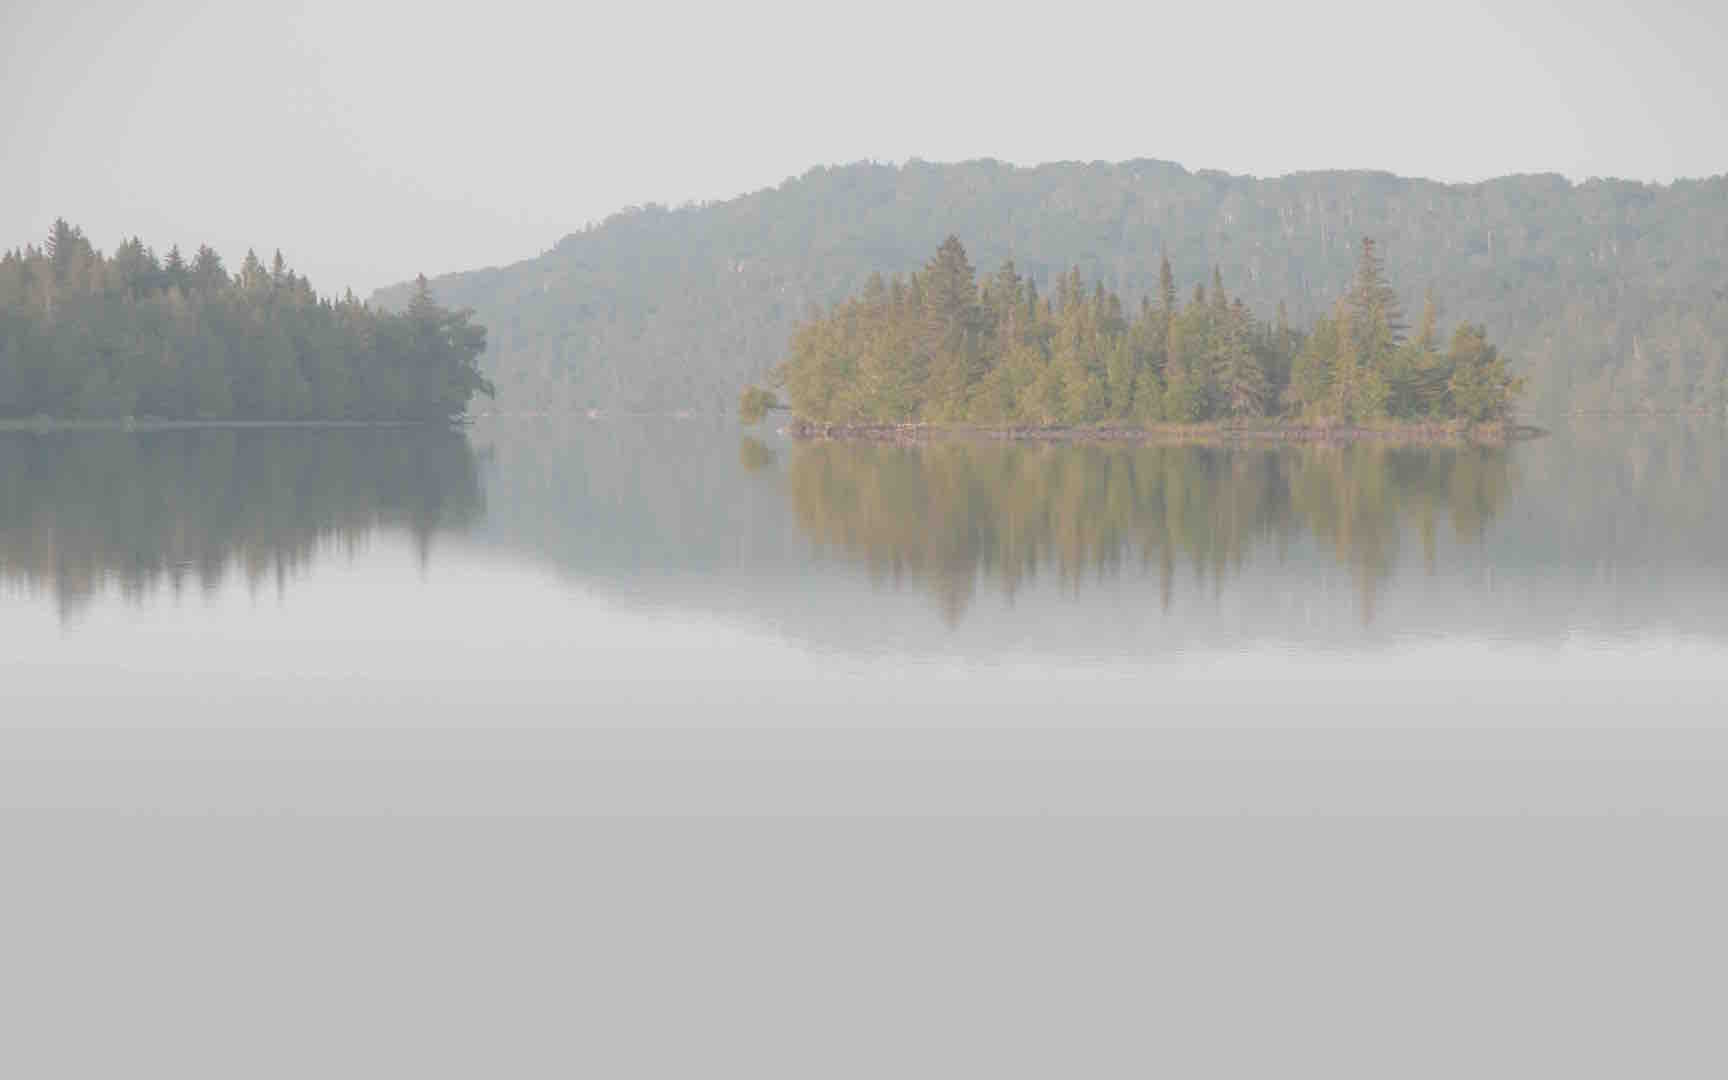
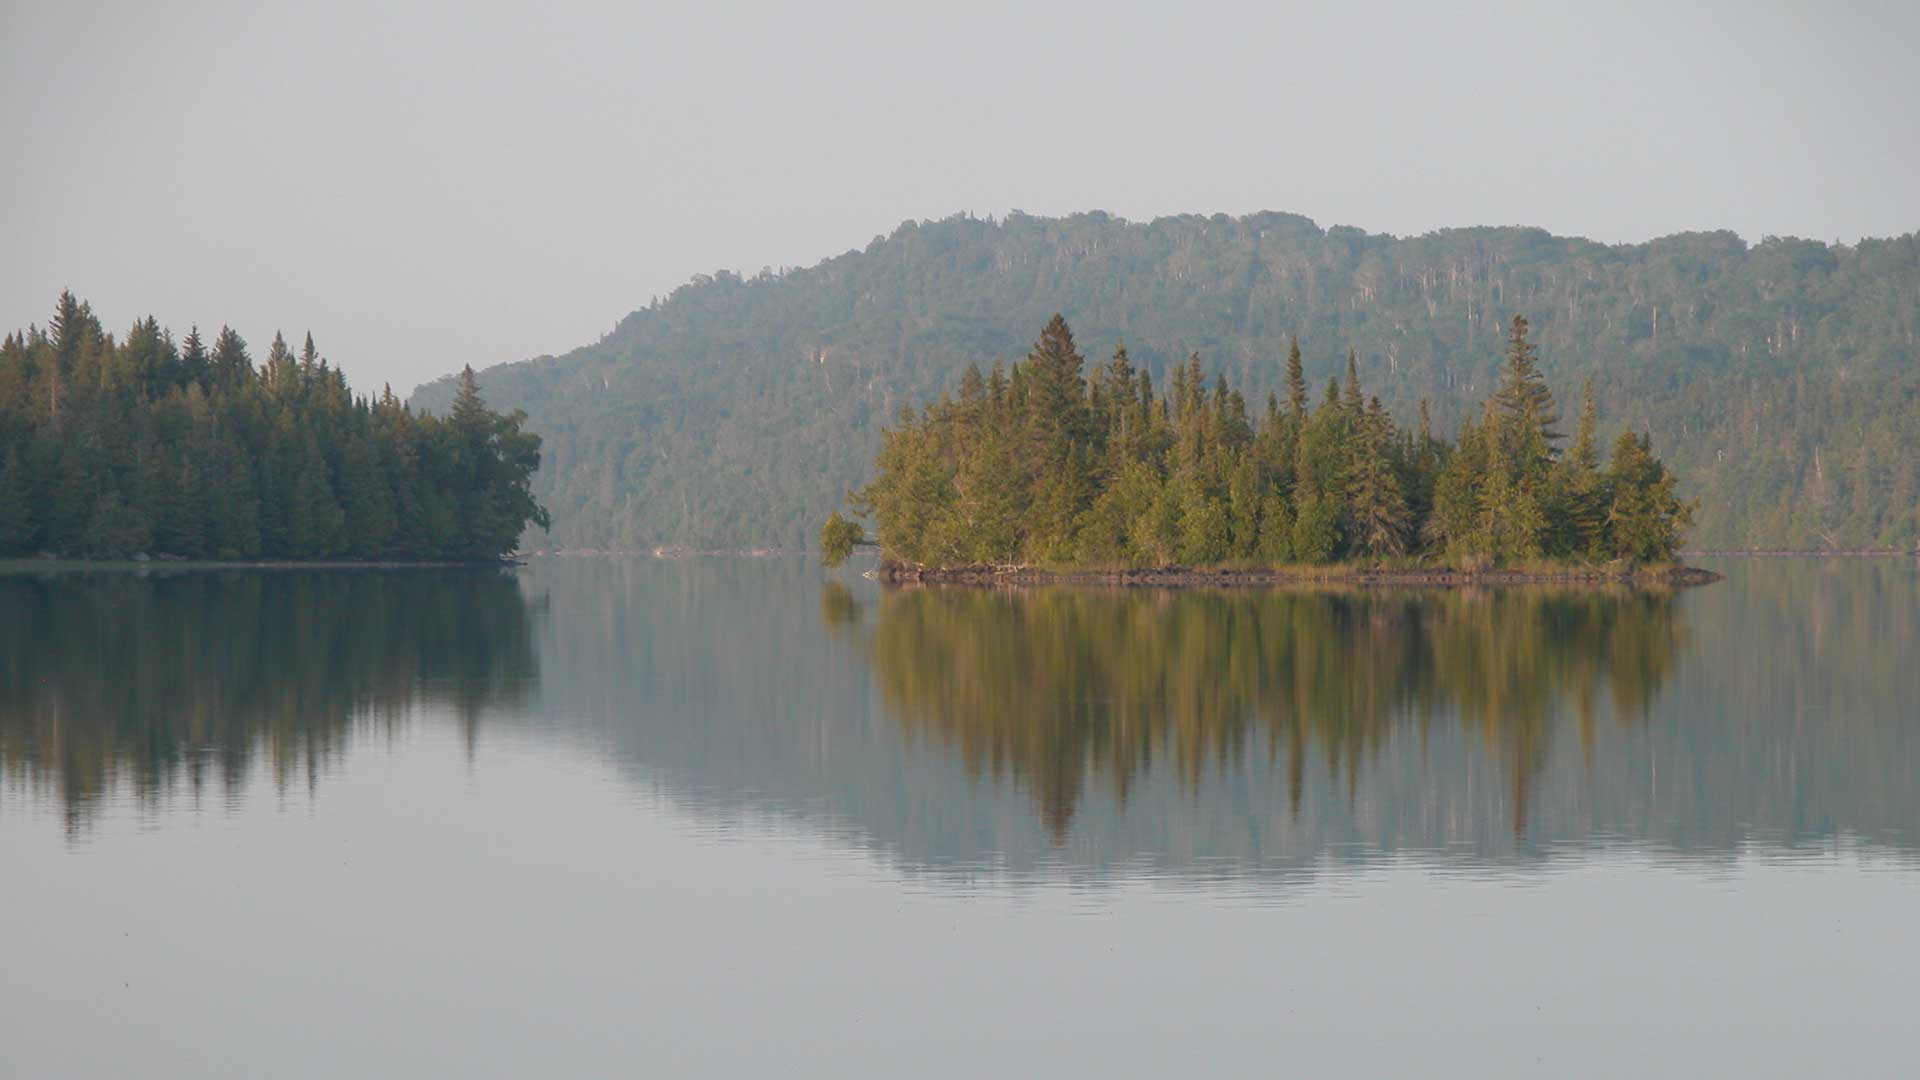
Resized and compressed background images. Used dot matrix overlay to push them to background visually

diff --git a/index.html b/index.html
@@ -42,6 +42,18 @@
           <li>
             <span> Image 06 </span>
           </li>
+          <li>
+            <span> Image 07 </span>
+          </li>
+          <li>
+            <span> Image 08 </span>
+          </li>
+          <li>
+            <span> Image 09 </span>
+          </li>
+          <li>
+            <span> Image 10 </span>
+          </li>
         </ul>
 
         <!--        Audio Elements-->

diff --git a/wolf-css/wolf-moose.css b/wolf-css/wolf-moose.css
@@ -184,6 +184,10 @@ Background Slideshow CSS
     left: 0px;
     z-index: -10;
 }
+.bkg-slideshow:after {
+  content: '';
+  background: url(../wolf-img/bkg/dotted_overlay.png) repeat top left;
+}
 .bkg-slideshow li span {
     width: 100%;
     height: 100%;
